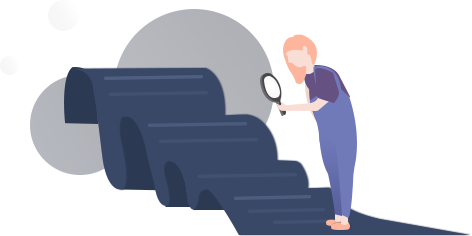
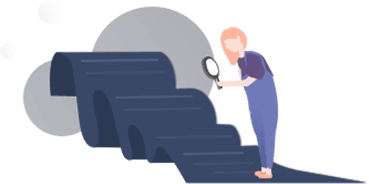
style: 更换商家申请和404图片

diff --git a/src/utils/env.js b/src/utils/env.js
@@ -20,15 +20,15 @@ let targetConfig = {
 }
 
 const devTestConfig = {
-  apiCommonUrl: 'http://192.168.1.200:8888/',
-  socketUrl: 'ws://192.168.1.200:8087/market',
-  loginSocketUrl: 'ws://192.168.1.200:8888/qrcodeLogin/'
+  apiCommonUrl: 'http://192.168.2.200:8888/',
+  socketUrl: 'ws://192.168.2.200:8087/market',
+  loginSocketUrl: 'ws://192.168.2.200:8888/qrcodeLogin/'
 }
 
 const dev210Config = {
-  apiCommonUrl: 'http://192.168.1.210:8888/',
-  socketUrl: 'ws://192.168.1.134:8087/market',
-  loginSocketUrl: 'ws://192.168.1.210:8888/qrcodeLogin/'
+  apiCommonUrl: 'http://192.168.2.210:8888/',
+  socketUrl: 'ws://192.168.2.134:8087/market',
+  loginSocketUrl: 'ws://192.168.2.210:8888/qrcodeLogin/'
 }
 
 // eslint-disable-next-line
@@ -47,13 +47,13 @@ const newProdConfig = {
 switch (process.env.NODE_ENV) {
   case 'development':
     // 本地开发
-    // targetConfig = {...targetConfig, ...devTestConfig, xDomain: 'new.test.com'}
+    targetConfig = {...targetConfig, ...devTestConfig, xDomain: 'new.test.com'}
     // 210开发环境
     // targetConfig = {...dev210Config, xDomain: 'me.com'}
     // 生产环境
     // targetConfig = {...prodConfig, xDomain: 'new.bzu.com'}
     // 新生产环境
-    targetConfig = {...newProdConfig, xDomain: 'fubt.co'}
+    // targetConfig = {...newProdConfig, xDomain: 'fubt.co'}
     break
   // 210开发环境
   case 'development210':

diff --git a/src/pages/ErrorFor500And404.vue b/src/pages/ErrorFor500And404.vue
@@ -92,7 +92,7 @@ export default {
       text-align: center;
 
       > img {
-        margin: 100px auto;
+        margin: 200px 0 30px;
       }
 
       > p {
@@ -105,10 +105,11 @@ export default {
       > a {
         display: inline-block;
         width: 140px;
-        height: 44px;
+        height: 36px;
         margin: 40px auto;
         border-radius: 4px;
-        line-height: 44px;
+        font-size: 12px;
+        line-height: 36px;
         color: #fff;
         background: linear-gradient(81deg, rgba(43, 57, 110, 1) 0%, rgba(42, 80, 130, 1) 100%);
       }
